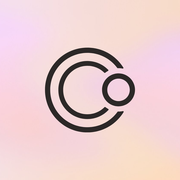
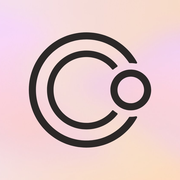
Add files via upload

Changed region(s): [[0.1389, 0.1667, 0.8611, 0.8333]]

diff --git a/index.html b/index.html
@@ -1002,7 +1002,7 @@ button.mtr:active .sv{opacity:.5}
 
     <!-- SPLASH -->
     <section class="screen pal" id="s-splash" style="--pm:#FFD3BE;--pb:#F4E8D8" hidden>
-      <svg class="splash-logo" viewBox="0 0 778 733" fill="none" aria-hidden="true"><path d="M366.449 0C497.535 0 612.543 68.8293 677.308 172.318C679.971 176.573 675.993 181.872 671.063 180.93C659.595 178.736 647.756 177.587 635.648 177.587C633.646 177.587 631.651 177.618 629.664 177.681C627.766 177.741 625.953 176.872 624.822 175.346C566.279 96.3252 472.346 45.1016 366.449 45.1016C188.974 45.1016 45.1016 188.974 45.1016 366.449C45.1016 543.925 188.974 687.797 366.449 687.797C473.555 687.797 568.421 635.397 626.813 554.835C627.928 553.297 629.731 552.41 631.63 552.45C632.966 552.479 634.306 552.493 635.648 552.493C648.436 552.493 660.924 551.211 672.991 548.77C677.911 547.775 681.944 553.033 679.326 557.315C614.95 662.619 498.908 732.898 366.449 732.898C164.065 732.898 0 568.834 0 366.449C3.2987e-05 164.065 164.065 3.30041e-05 366.449 0ZM368.071 115.577C438.153 116.021 501.417 145.201 546.673 191.925C549.274 194.611 548.457 199.017 545.184 200.824C536.483 205.627 528.204 211.101 520.418 217.177C518.104 218.982 514.798 218.804 512.699 216.753C474.971 179.888 423.364 157.168 366.449 157.168C250.867 157.168 157.168 250.867 157.168 366.449C157.168 482.032 250.867 575.729 366.449 575.729C424.152 575.729 476.399 552.376 514.258 514.605C516.335 512.533 519.64 512.32 521.972 514.101C529.819 520.095 538.155 525.481 546.907 530.194C550.199 531.966 551.062 536.364 548.489 539.076C502.772 587.27 438.121 617.326 366.449 617.326L364.826 617.32C227.558 616.451 116.446 505.34 115.577 368.071L115.572 366.449C115.572 227.894 227.894 115.572 366.449 115.572L368.071 115.577ZM637.488 222.7C715.259 223.685 778 287.036 778 365.04L777.988 366.88C777.003 444.65 713.653 507.392 635.648 507.392L633.809 507.38C556.65 506.403 494.286 444.038 493.309 366.88L493.297 365.04C493.297 286.422 557.03 222.689 635.648 222.688L637.488 222.7ZM635.648 267.79C581.939 267.79 538.398 311.33 538.398 365.04C538.399 418.75 581.939 462.29 635.648 462.29C689.358 462.29 732.898 418.75 732.898 365.04C732.898 311.33 689.358 267.79 635.648 267.79Z" fill="currentColor"/></svg>
+      <svg class="splash-logo" viewBox="0 0 1200 1131" fill="none" aria-hidden="true"><path fill="currentColor" d="M568.873 0.0117188C781.064 1.35565 965.511 119.625 1061.03 293.629C1064.66 300.24 1058.48 307.94 1051.08 306.486C1034.55 303.239 1017.48 301.537 1000 301.537C996.773 301.537 993.56 301.595 990.362 301.711C987.201 301.825 984.202 300.277 982.493 297.617C894.338 160.44 740.391 69.5656 565.218 69.5654C291.477 69.5654 69.5654 291.477 69.5654 565.218C69.5656 838.959 291.477 1060.87 565.218 1060.87C740.569 1060.87 894.651 969.81 982.762 832.4C984.469 829.738 987.466 828.187 990.627 828.298C993.738 828.407 996.862 828.463 1000 828.463C1017.57 828.463 1034.73 826.743 1051.34 823.463C1058.74 822.001 1064.92 829.694 1061.3 836.309C965.315 1011.58 779.147 1130.43 565.218 1130.43L561.562 1130.42C252.301 1128.46 1.97046 878.134 0.0117188 568.873L0 565.218C0 253.057 253.057 0 565.218 0L568.873 0.0117188ZM567.72 178.269C689.702 179.041 798.292 236.257 868.688 325.11C871.988 329.275 870.644 335.365 866.07 338.07C853.193 345.686 841.021 354.368 829.674 363.992C825.776 367.299 819.871 366.761 816.663 362.781C757.493 289.379 666.839 242.419 565.218 242.419C386.941 242.419 242.419 386.941 242.419 565.218C242.419 743.494 386.942 888.016 565.218 888.016C666.955 888.015 757.699 840.949 816.865 767.403C820.069 763.419 825.973 762.875 829.875 766.178C841.231 775.791 853.412 784.46 866.297 792.063C870.874 794.764 872.224 800.852 868.928 805.02C798.059 894.655 688.356 952.174 565.218 952.174L562.715 952.166C350.99 950.825 179.609 779.445 178.269 567.72L178.261 565.218C178.261 351.508 351.508 178.261 565.218 178.261L567.72 178.269ZM1000 365C1110.46 365 1200 454.543 1200 565C1200 675.457 1110.46 765 1000 765C889.543 765 800 675.457 800 565C800 454.543 889.543 365 1000 365ZM1000 434.565C927.963 434.565 869.565 492.963 869.565 565C869.565 637.037 927.963 695.435 1000 695.435C1072.04 695.435 1130.43 637.037 1130.43 565C1130.43 492.963 1072.04 434.565 1000 434.565Z"/></svg>
       <h1 class="brand brand--xl" id="splash-brand" aria-label="Conversate">Conversate</h1>
     </section>
 
@@ -1017,7 +1017,7 @@ button.mtr:active .sv{opacity:.5}
       <div class="scroll">
         <div class="hdr" id="home-hdr">
           <div class="hdr-bar">
-            <span class="logo" role="img" aria-label="Conversate"><svg viewBox="0 0 778 733" fill="none" aria-hidden="true"><path d="M366.449 0C497.535 0 612.543 68.8293 677.308 172.318C679.971 176.573 675.993 181.872 671.063 180.93C659.595 178.736 647.756 177.587 635.648 177.587C633.646 177.587 631.651 177.618 629.664 177.681C627.766 177.741 625.953 176.872 624.822 175.346C566.279 96.3252 472.346 45.1016 366.449 45.1016C188.974 45.1016 45.1016 188.974 45.1016 366.449C45.1016 543.925 188.974 687.797 366.449 687.797C473.555 687.797 568.421 635.397 626.813 554.835C627.928 553.297 629.731 552.41 631.63 552.45C632.966 552.479 634.306 552.493 635.648 552.493C648.436 552.493 660.924 551.211 672.991 548.77C677.911 547.775 681.944 553.033 679.326 557.315C614.95 662.619 498.908 732.898 366.449 732.898C164.065 732.898 0 568.834 0 366.449C3.2987e-05 164.065 164.065 3.30041e-05 366.449 0ZM368.071 115.577C438.153 116.021 501.417 145.201 546.673 191.925C549.274 194.611 548.457 199.017 545.184 200.824C536.483 205.627 528.204 211.101 520.418 217.177C518.104 218.982 514.798 218.804 512.699 216.753C474.971 179.888 423.364 157.168 366.449 157.168C250.867 157.168 157.168 250.867 157.168 366.449C157.168 482.032 250.867 575.729 366.449 575.729C424.152 575.729 476.399 552.376 514.258 514.605C516.335 512.533 519.64 512.32 521.972 514.101C529.819 520.095 538.155 525.481 546.907 530.194C550.199 531.966 551.062 536.364 548.489 539.076C502.772 587.27 438.121 617.326 366.449 617.326L364.826 617.32C227.558 616.451 116.446 505.34 115.577 368.071L115.572 366.449C115.572 227.894 227.894 115.572 366.449 115.572L368.071 115.577ZM637.488 222.7C715.259 223.685 778 287.036 778 365.04L777.988 366.88C777.003 444.65 713.653 507.392 635.648 507.392L633.809 507.38C556.65 506.403 494.286 444.038 493.309 366.88L493.297 365.04C493.297 286.422 557.03 222.689 635.648 222.688L637.488 222.7ZM635.648 267.79C581.939 267.79 538.398 311.33 538.398 365.04C538.399 418.75 581.939 462.29 635.648 462.29C689.358 462.29 732.898 418.75 732.898 365.04C732.898 311.33 689.358 267.79 635.648 267.79Z" fill="currentColor"/></svg></span>
+            <span class="logo" role="img" aria-label="Conversate"><svg viewBox="0 0 1200 1131" fill="none" aria-hidden="true"><path fill="currentColor" d="M568.873 0.0117188C781.064 1.35565 965.511 119.625 1061.03 293.629C1064.66 300.24 1058.48 307.94 1051.08 306.486C1034.55 303.239 1017.48 301.537 1000 301.537C996.773 301.537 993.56 301.595 990.362 301.711C987.201 301.825 984.202 300.277 982.493 297.617C894.338 160.44 740.391 69.5656 565.218 69.5654C291.477 69.5654 69.5654 291.477 69.5654 565.218C69.5656 838.959 291.477 1060.87 565.218 1060.87C740.569 1060.87 894.651 969.81 982.762 832.4C984.469 829.738 987.466 828.187 990.627 828.298C993.738 828.407 996.862 828.463 1000 828.463C1017.57 828.463 1034.73 826.743 1051.34 823.463C1058.74 822.001 1064.92 829.694 1061.3 836.309C965.315 1011.58 779.147 1130.43 565.218 1130.43L561.562 1130.42C252.301 1128.46 1.97046 878.134 0.0117188 568.873L0 565.218C0 253.057 253.057 0 565.218 0L568.873 0.0117188ZM567.72 178.269C689.702 179.041 798.292 236.257 868.688 325.11C871.988 329.275 870.644 335.365 866.07 338.07C853.193 345.686 841.021 354.368 829.674 363.992C825.776 367.299 819.871 366.761 816.663 362.781C757.493 289.379 666.839 242.419 565.218 242.419C386.941 242.419 242.419 386.941 242.419 565.218C242.419 743.494 386.942 888.016 565.218 888.016C666.955 888.015 757.699 840.949 816.865 767.403C820.069 763.419 825.973 762.875 829.875 766.178C841.231 775.791 853.412 784.46 866.297 792.063C870.874 794.764 872.224 800.852 868.928 805.02C798.059 894.655 688.356 952.174 565.218 952.174L562.715 952.166C350.99 950.825 179.609 779.445 178.269 567.72L178.261 565.218C178.261 351.508 351.508 178.261 565.218 178.261L567.72 178.269ZM1000 365C1110.46 365 1200 454.543 1200 565C1200 675.457 1110.46 765 1000 765C889.543 765 800 675.457 800 565C800 454.543 889.543 365 1000 365ZM1000 434.565C927.963 434.565 869.565 492.963 869.565 565C869.565 637.037 927.963 695.435 1000 695.435C1072.04 695.435 1130.43 637.037 1130.43 565C1130.43 492.963 1072.04 434.565 1000 434.565Z"/></svg></span>
             <span class="hdr-r"><button type="button" class="btn btn--icon" id="home-streak" data-h="cal" aria-label="Day streak, open Progress"></button></span>
           </div>
           <div class="hdr-body" id="home-hdr-body"></div>

diff --git a/sw.js b/sw.js
@@ -1,4 +1,4 @@
-const V="conversate-v10",FILES=["./", "index.html", "manifest.webmanifest", "whisper.js", "whisper-worker.js", "ort/ort.wasm.min.mjs", "ort/ort-wasm-simd-threaded.mjs", "ort/ort-wasm-simd-threaded.wasm", "fonts/hanken-400.woff2", "fonts/hanken-500.woff2", "fonts/dm-mono-400.woff2", "icons/icon-192.png", "icons/icon-512.png", "icons/maskable-512.png", "icons/apple-touch-icon.png", "icons/favicon-32.png"];
+const V="conversate-v11",FILES=["./", "index.html", "manifest.webmanifest", "whisper.js", "whisper-worker.js", "ort/ort.wasm.min.mjs", "ort/ort-wasm-simd-threaded.mjs", "ort/ort-wasm-simd-threaded.wasm", "fonts/hanken-400.woff2", "fonts/hanken-500.woff2", "fonts/dm-mono-400.woff2", "icons/icon-192.png", "icons/icon-512.png", "icons/maskable-512.png", "icons/apple-touch-icon.png", "icons/favicon-32.png"];
 self.addEventListener("install",e=>{e.waitUntil(caches.open(V).then(c=>Promise.allSettled(FILES.map(f=>c.add(f)))).then(()=>self.skipWaiting()))});
 self.addEventListener("activate",e=>{e.waitUntil(caches.keys().then(k=>Promise.all(k.filter(x=>x!==V&&x!=="conversate-model-v1").map(x=>caches.delete(x)))).then(()=>self.clients.claim()))});
 self.addEventListener("fetch",e=>{
